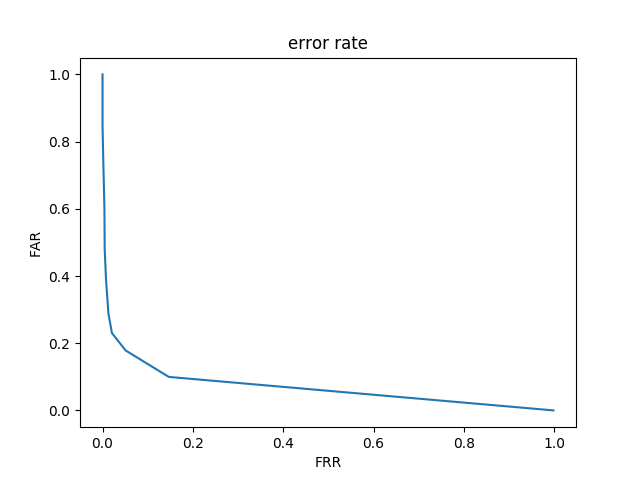
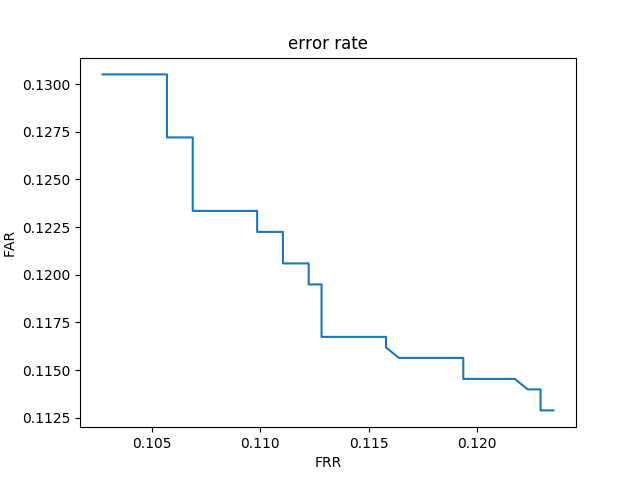
ran verifier

diff --git a/Verifier.py b/Verifier.py
@@ -197,8 +197,8 @@ min = 100
 error_rates = []
 real_T = 0
 i = 0
-ind
-for T in np.linspace(-1,1,40):
+ind = 0
+for T in np.linspace(0.93,0.94,300):
     a = model.predict(x_test[:,0,:,:,:])
     b = model.predict(x_test[:, 1, :, :, :])
     predicted_labels = cosine_comparison(T, a, b)
@@ -237,6 +237,6 @@ plt.savefig(graph_dir + update_name)
 
 
 with open(logfile, 'a') as myfile:
-    myfile.write(update_name + "real T: " + str(real_T) + " ratess: " + str(error_rates[i]) + str(error_rates) + " test:  " + str(error_rates[:][0]) + " 2: " + str(error_rates[:][1]) + '\n')
+    myfile.write(update_name + "real T: " + str(real_T) + " ratess: " + str(error_rates[ind]) + str(error_rates) + " test:  " + str(error_rates[:][0]) + " 2: " + str(error_rates[:][1]) + '\n')
 
 print("FINISH")
